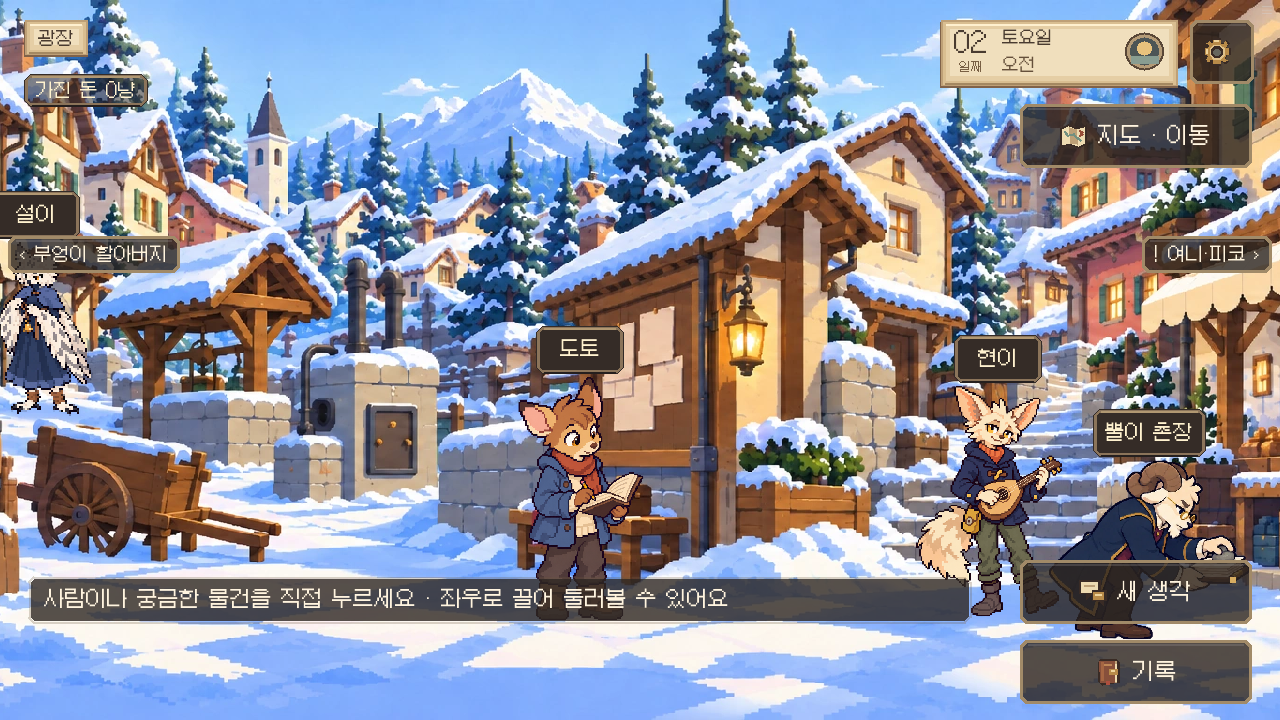
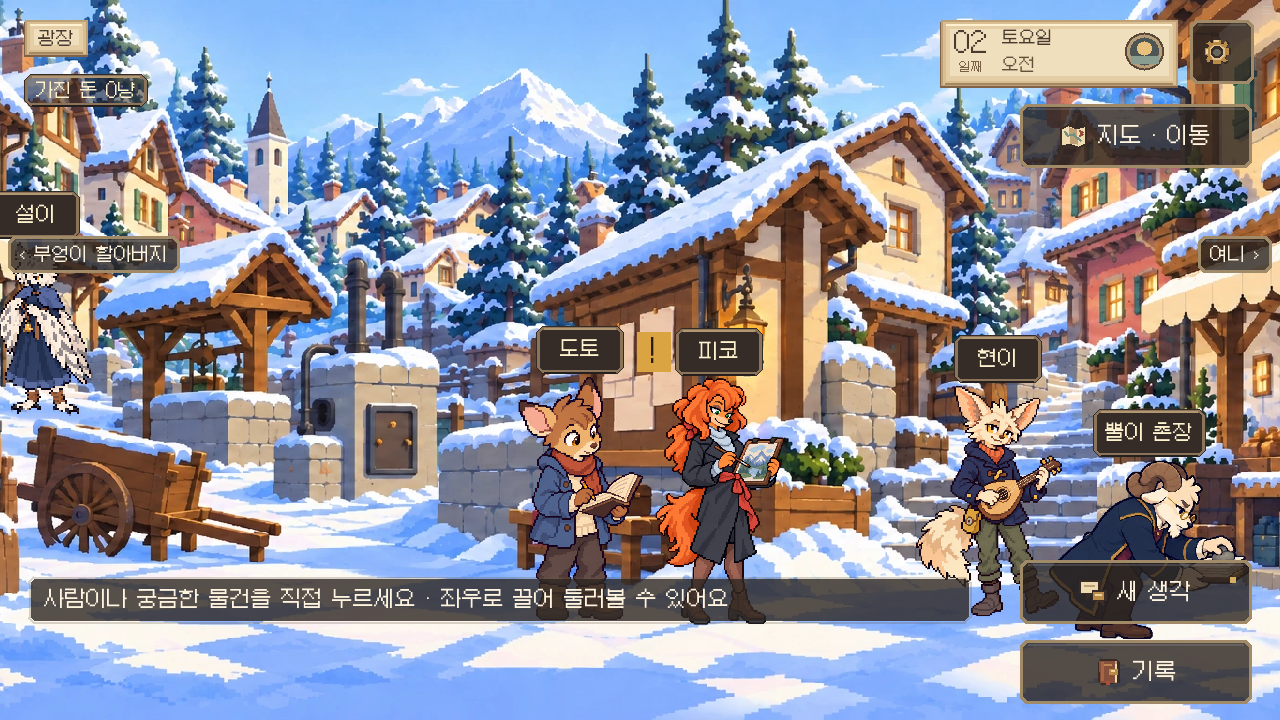
Keep regenerated expression bindings reproducible and expose the active Piko offer

Changed region(s): [[0.5, 0.4583, 0.625, 0.8861], [0.875, 0.3056, 0.9688, 0.3972]]

diff --git a/experiments/renpy-ch1/dev/qa_design_restore.py b/experiments/renpy-ch1/dev/qa_design_restore.py
@@ -56,6 +56,7 @@ async def main():
             await q.py('import renpy\nexec('+repr(mask)+',renpy.store.__dict__)\nresult=True')
             for f,target in [('room13-world-layout.json','R13_WORLD_LAYOUTS'),('room13-map-action27.json','R13_MAP_ACTION27')]:
                 data=json.loads((ROOT/'game/assets'/f).read_text());await q.py('import renpy\nrenpy.store.'+target+'='+repr(data)+'\nrenpy.store.R13_STAGE_CACHE.clear()\nresult=True')
+            await q.py('import renpy\nrenpy.store.R13_OFFER_ACTORS["r13_w1c_portrait"]=("resident_piko",("map27_paint_sketchboard_v2","event_paintwipe","living_paint"))\nresult=True')
             for name,state in scenarios.items():
                 report[name+'-after']=await q.py('state='+repr(state)+'\n'+FIELD);await asyncio.sleep(.8);await page.screenshot(path=str(OUT/(name+'-after.png')))
             assert any(x['person']=='resident_piko' for x in report['piko-after'])

diff --git a/experiments/renpy-ch1/dev/match_ms14_expressions.py b/experiments/renpy-ch1/dev/match_ms14_expressions.py
@@ -100,6 +100,8 @@ def main():
     write(binding_path,bindings);write(review_path,review)
     live.extend(dynamic)
     write(beats_path,beats);write(full_path,full)
+    from build_dialogue_bindings import compile_registry
+    write(binding_path,compile_registry())
     OUT.mkdir(exist_ok=True)
     write(OUT/'expression-matching.json',dict(scope=route['scope'],matched=matched,missing=missing,
         active_entry_matches=live,counts=dict(collections.Counter(x['emotion'] for x in matched)),

diff --git a/docs/DESIGN_RESTORE_20261020.md b/docs/DESIGN_RESTORE_20261020.md
@@ -1,0 +1,18 @@
+# 승인 디자인 적용 체크리스트
+
+작업 브랜치: art/dialogue-expression-fit-20261020. 보존 커밋: 5d1c2d56, 최신 main 통합: 40be0f42 (main 76cc88a9의 여관·자료 변경 보존). D06 대본/단일 선택지 파일은 수정하지 않음.
+
+| 항목 | 준비·검사 | 게시·병합·배포 | 미완료 이유/근거 |
+|---|---|---|---|
+| 원화 기반 40명×6종, 기존 표시 파일 720개 교체 | 720개 2×2 파일 검사, D01 자연 진입·렌더러 캡처 확인 | 로컬 커밋 완료, PR/병합/배포 대기 | 신규 중복 이미지가 아니라 기존 프로필 파일 교체. 전체 40명 수동 시각 검수는 아님 |
+| 표정 479행 및 현재 D01 27행 연결 | 관련 검사 통과. 재생성 식별자 불일치 수정 후 해당 9개+연결 12개 통과 | 로컬 커밋 완료, PR/병합/배포 대기 | 실룩의 아이 화자 미확정, 진료 담당자/종업원 승인 이미지 없음. 임의 대체 없음 |
+| PR17 소파·전경 가림 | 필요한 코드/검사만 선별. 소파 6개·관련 배치 14개·가림 9개 검사 통과, 전후 캡처 생성 | 로컬 커밋 완료, native/PR/병합/배포 대기 | PR17 전체 및 진단용 workflow는 병합하지 않음 |
+| 피코 이벤트·이름표 | 주간 일정/활성 이벤트 불일치 수정, 기존 승인 그림 그리는 포즈/위치 사용 | native/최종 화면 확인 대기 | 사람 목록 복구 후 카메라 밖으로 밀리는 현상도 확인해 고정된 기존 작업 위치로 보완 중 |
+| 자료 제목 중복·슬래시 나열 | 원본 사실 불변, 기존 텍스트 표시 함수에 줄바꿈만 적용 | 검사/배포 대기 | 새 카드 시스템 없음 |
+| D01 휴식 제안 | 기존 첫날 목표 표식에만 연결, 조건 9개 확인 | 최신 main 내용과 통합, 배포 대기 | 새 진행 상태·자동 이동·자동 취침 없음 |
+| 기존 승인 UI | PR12는 ab7b8a0b로 병합됐으며 main 조상. 기존 높이/필터 제거 규격 유지 | 이미 반영된 것은 재작성하지 않음 | 자료/이야기의 신규 사건 수첩 개편 없음 |
+| 장터 상인 | 승인 포즈/카운터 데이터 확인 | 아직 미수정·미배포 | 첨부 다운로드 실패, 부모가 전달한 화면 상대 좌표를 엔진/스크롤 좌표와 대조할 필요 |
+| 지도 hover-only 윤곽 | 다각형 크롭/outline에 나무·길 포함 확인 | 명시적 보류 | 정밀 건물+인쇄 글자 마스크 없음. 큰 테두리를 해결로 취급하지 않음 |
+| 오프닝 맥락 | 원문 나무 바퀴 소리/과자 봉지 연출 확인 | 미수정 | 원문에 충돌 사건 없음. 임의 ‘쾅’ 사건 추가하지 않음 |
+
+전체 로컬 검사 755개 중 754개 통과/재생성 식별자 검사 1개 실패 후, 원인을 수정하고 실패·연결 검사만 재실행해 통과했다. 통합 main 이후에도 관련 검사를 확인한다. 새 CI 실행·PR·병합·배포 결과는 확인된 URL과 커밋으로 이 문서에 이어 기록한다. 기존 누적 US$1 한도, 표준 공개 runner/100MiB·1일 결과물 상한 유지.
